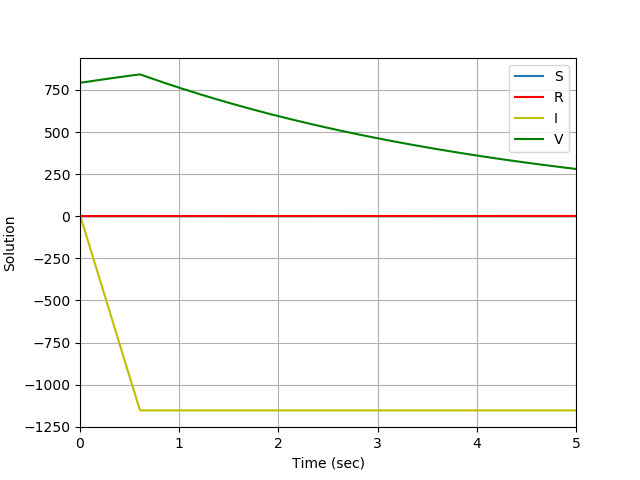
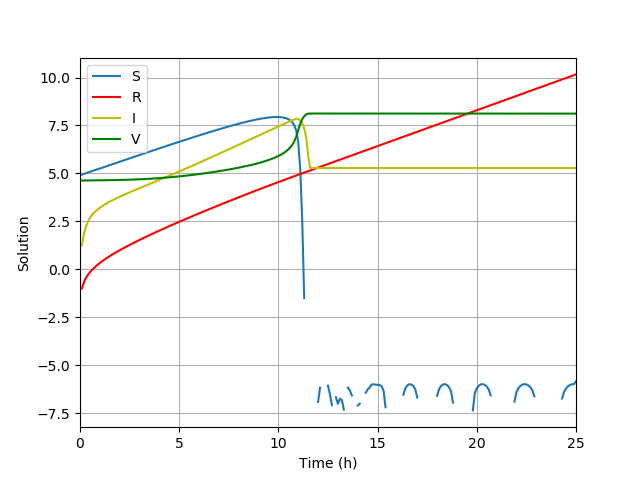
Simulate Panel 4 from paper.

diff --git a/DDE/Python/main.py b/DDE/Python/main.py
@@ -1,4 +1,4 @@
-# import pydelay and numpy and pylab
+#!/usr//bin/python
 import numpy as np
 from matplotlib import pyplot as plt
 from pydelay import dde23
@@ -12,54 +12,135 @@ eqns = {
   }
 
 #define the parameters
+#params = {
+#    'a': 0.9738,
+#    'f': 10 ** -5.675,
+#    'b': 10 ** -5.561,
+#    'h': 2.080,
+#    'm': 0.0067,
+#    'K': 0.8563,
+#    }
+
+#params = {
+#    'a': 0.8604,
+#    'f': 10 ** -4.9875,
+#    'b': 10 ** -7.2310,
+#    'h': 1.5501,
+#    'K': 0.0944,
+#    'm': 0.0003,
+#   }
+
 params = {
-    'a': 0.1,
-    'f': 0.2,
-    'b': 0.3,
-    'h': 0.15,
-    'm': 0.25,
-    'K': 0.6
-    }
+    'a': 0.8608,
+    'f': 10 ** -4.940,
+    'b': 10 ** -5.931,
+    'h': 1.624,
+    'K': 0.4314,
+    'm': 0.0009,
+   }
 
 # Initialise the solver
 dde = dde23(eqns=eqns, params=params)
 
+tf = 25
+
 # set the simulation parameters
 # (solve from t=0 to t=5 and limit the maximum step size to 1.0)
-dde.set_sim_params(tfinal=5, dtmax=1.0)
+dde.set_sim_params(tfinal=tf, dtmax=1.0)
 
 # set the history of to the constant function 0.5 (using a python lambda function)
+#histfunc = {
+#    'S': lambda t: 10 ** 5.0803,
+#    'V': lambda t: 10 ** 6.4301,
+#    'I': lambda t: 0,
+#    'R': lambda t: 0,
+#    }
+
+#histfunc = {
+#    'S': lambda t: 10 ** 4.5428,
+#    'V': lambda t: 10 ** 6.5282,
+#    'I': lambda t: 0,
+#    'R': lambda t: 0,
+#    }
+
 histfunc = {
-    'S': lambda t: 8,
-    'V': lambda t: 800,
+    'S': lambda t: 10 ** 4.906,
+    'V': lambda t: 10 ** 4.627,
     'I': lambda t: 0,
-    'R': lambda t: 1,
+    'R': lambda t: 0,
     }
+
+
+
 dde.hist_from_funcs(histfunc, 51)
 
 # run the simulator
 dde.run()
 
-# Make a plot of x(t) vs x(t-tau):
 # Sample the solution twice with a stepsize of dt=0.1:
 
 # once in the interval [515, 1000]
-sol = dde.sample(0, 5.01, 0.01)
-S = sol['S']
-R = sol['R']
-I = sol['I']
-V = sol['V']
+sol = dde.sample(0, tf + .1, 0.1)
+S = np.log10(sol['S'])
+R = np.log10(sol['R'])
+I = np.log10(sol['I'])
+V = np.log10(sol['V'])
 
-t = np.arange(0, 5.01 , 0.01) 
+t = np.arange(0, tf + .1 , 0.1) 
 
+plt.figure()
 plt.plot(t, S, label='S')
 plt.plot(t, R, 'r', label = 'R')
 plt.plot(t, I, 'y', label = 'I')
 plt.plot(t, V, 'g', label = 'V')
 plt.legend()
 plt.grid()
-plt.xlim([0, 5])
-plt.xlabel('Time (sec)')
+plt.xlim([0, tf])
+plt.xlabel('Time (h)')
 plt.ylabel('Solution')
 plt.savefig('phage_infection.png')
+
+plt.figure()
+plt.plot(t, S, label='S')
+plt.legend()
+plt.grid()
+plt.xlim([0, tf])
+plt.xlabel('Time (sec)')
+plt.ylabel('Solution')
+plt.savefig('S.png')
+
+
+plt.figure()
+plt.plot(t, V, label='V')
+plt.legend()
+plt.grid()
+plt.xlim([0, tf])
+plt.xlabel('Time (sec)')
+plt.ylabel('Solution')
+plt.savefig('V.png')
+
+
+plt.figure()
+plt.plot(t, I, label='I')
+plt.legend()
+plt.grid()
+plt.xlim([0, tf])
+plt.xlabel('Time (sec)')
+plt.ylabel('Solution')
+plt.savefig('I.png')
+
+
+plt.figure()
+plt.plot(t, R, label='R')
+plt.legend()
+plt.grid()
+plt.xlim([0, tf])
+plt.xlabel('Time (sec)')
+plt.ylabel('Solution')
+plt.savefig('R.png')
+
+
+
+
+
 plt.show()
